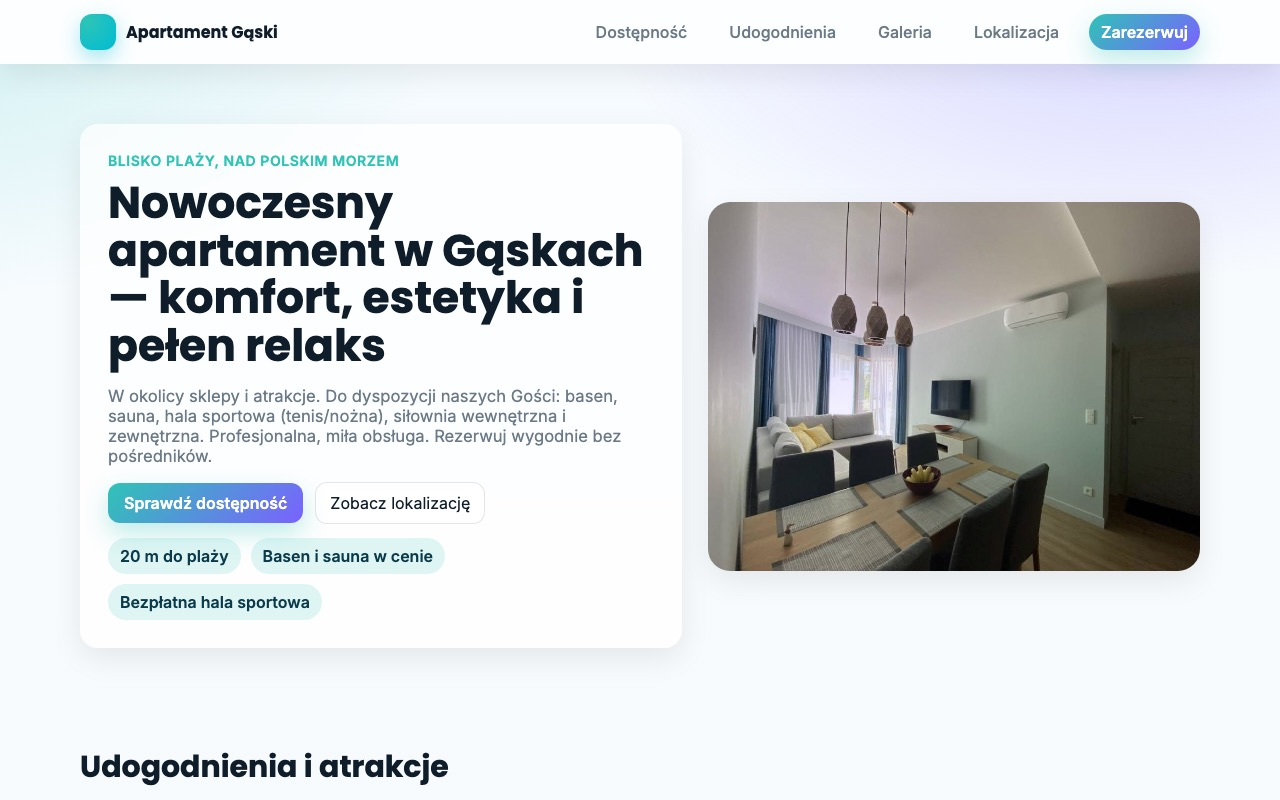
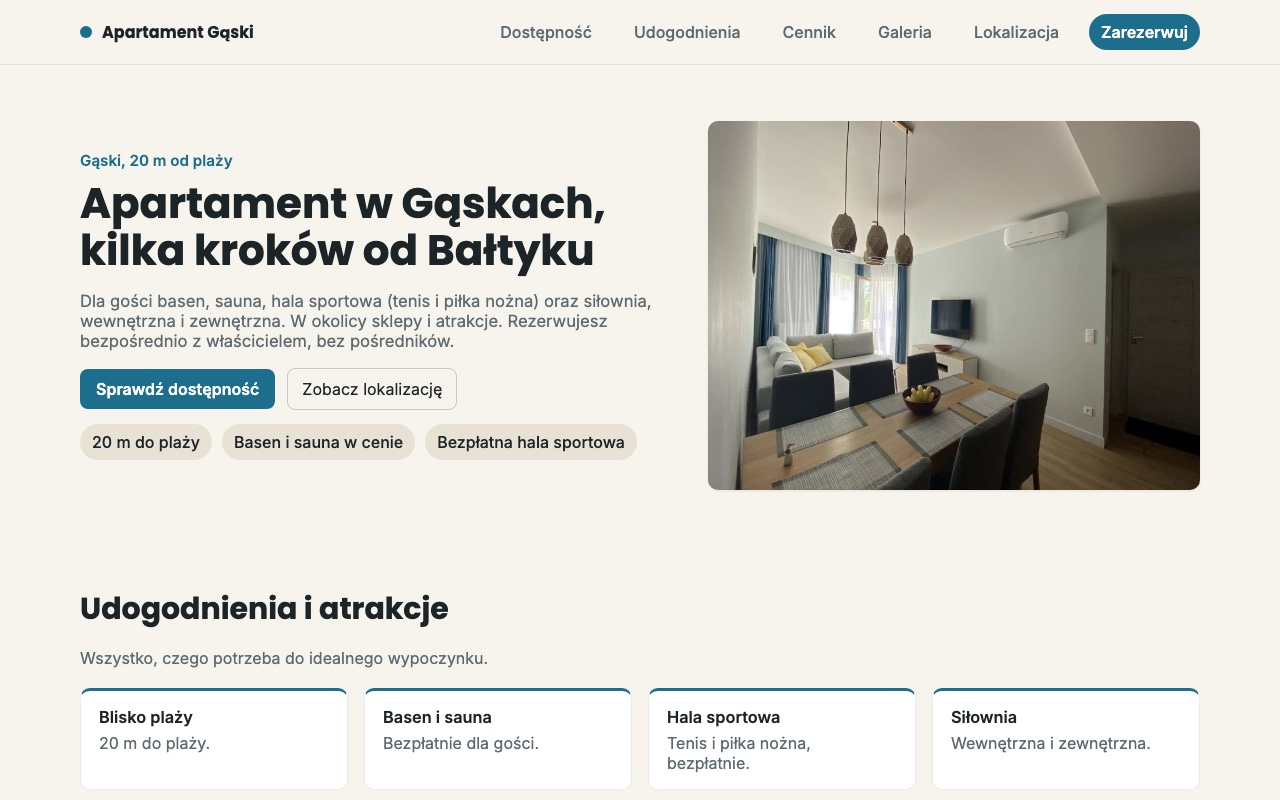
Add real output screenshots for scrapers, refresh Gaski screenshot, add main landmark

diff --git a/index.html b/index.html
@@ -115,6 +115,8 @@ h2 { font-size: 13px; font-family: "IBM Plex Mono", monospace; font-weight: 500;
   </div>
 </header>
 
+<main>
+
 <section>
   <div class="wrap">
     <h2>What I do</h2>
@@ -163,13 +165,7 @@ h2 { font-size: 13px; font-family: "IBM Plex Mono", monospace; font-weight: 500;
     </article>
 
     <article class="project">
-      <div class="codebox"><b>$ python scrape.py --category travel --details --out travel.csv</b>
-category=travel page=1 fetching listing
-category=travel done: 11 books, 1 pages
-details 1/11: It's Only the Himalayas
-details 2/11: Full Moon over Noah's Ark
-...
-wrote 11 books to travel.csv</div>
+      <img src="img/book-scraper.jpg" alt="Terminal output of the book scraper and the resulting travel.csv with 11 books" width="1280" height="800" loading="lazy">
       <div>
         <h3>Book scraper</h3>
         <p>Command-line scraper that turns a product catalogue into a clean spreadsheet.</p>
@@ -186,11 +182,7 @@ wrote 11 books to travel.csv</div>
     </article>
 
     <article class="project">
-      <div class="codebox"><b>$ python sheet_merge.py orders/ -o merged.xlsx --report</b>
-3 files, 17 rows read
-3 empty rows dropped
-2 duplicates removed
-Wrote 12 rows to merged.xlsx</div>
+      <img src="img/sheet-merge.jpg" alt="Terminal summary of sheet-merge and the merged spreadsheet of 12 orders from 3 files" width="1280" height="800" loading="lazy">
       <div>
         <h3>Sheet merge</h3>
         <p>Merges messy CSV and Excel exports from different sources into one clean file.</p>
@@ -278,6 +270,8 @@ GET    /api/stats/summary</div>
     </ul>
   </div>
 </section>
+
+</main>
 
 <footer>
   <div class="wrap">
